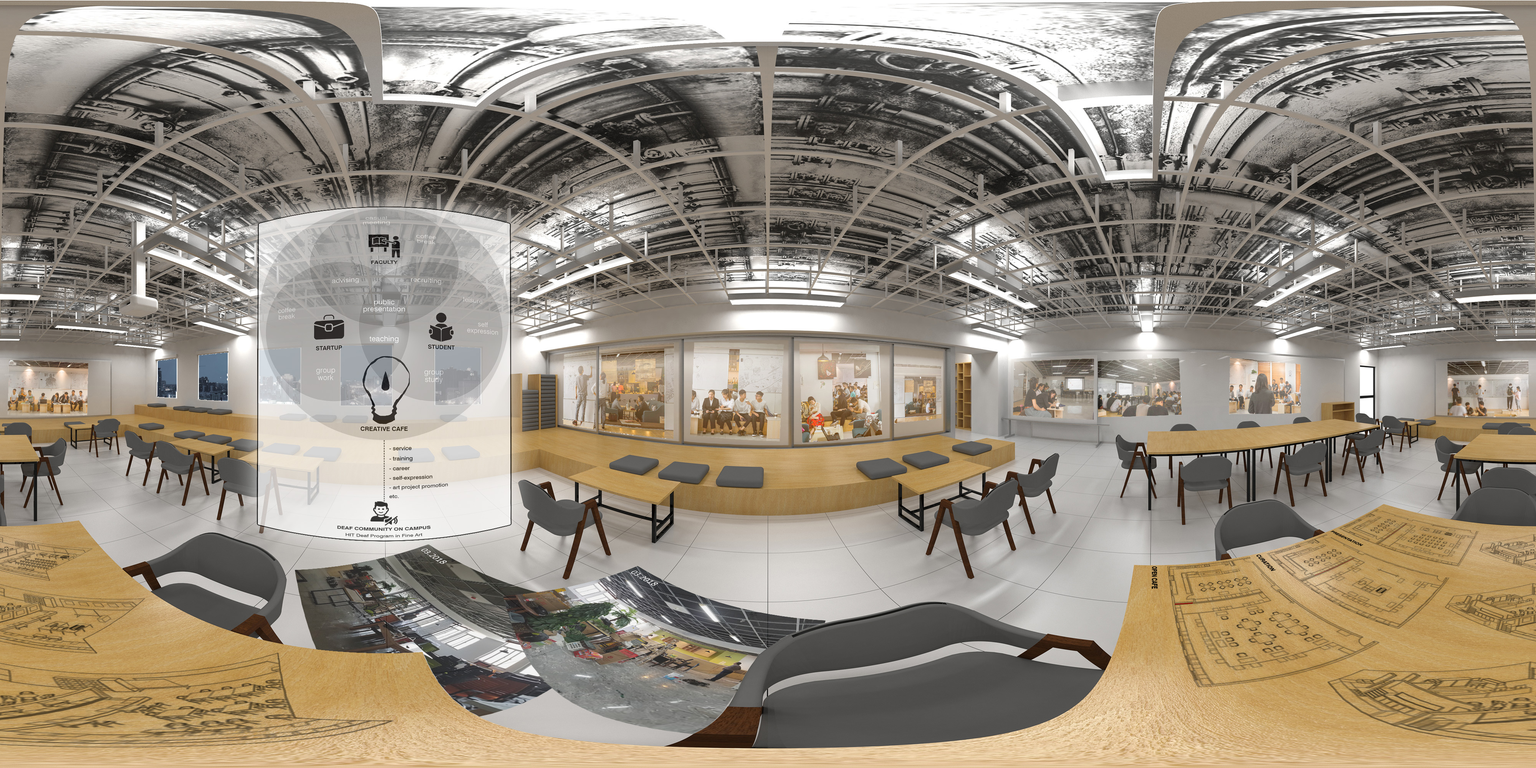
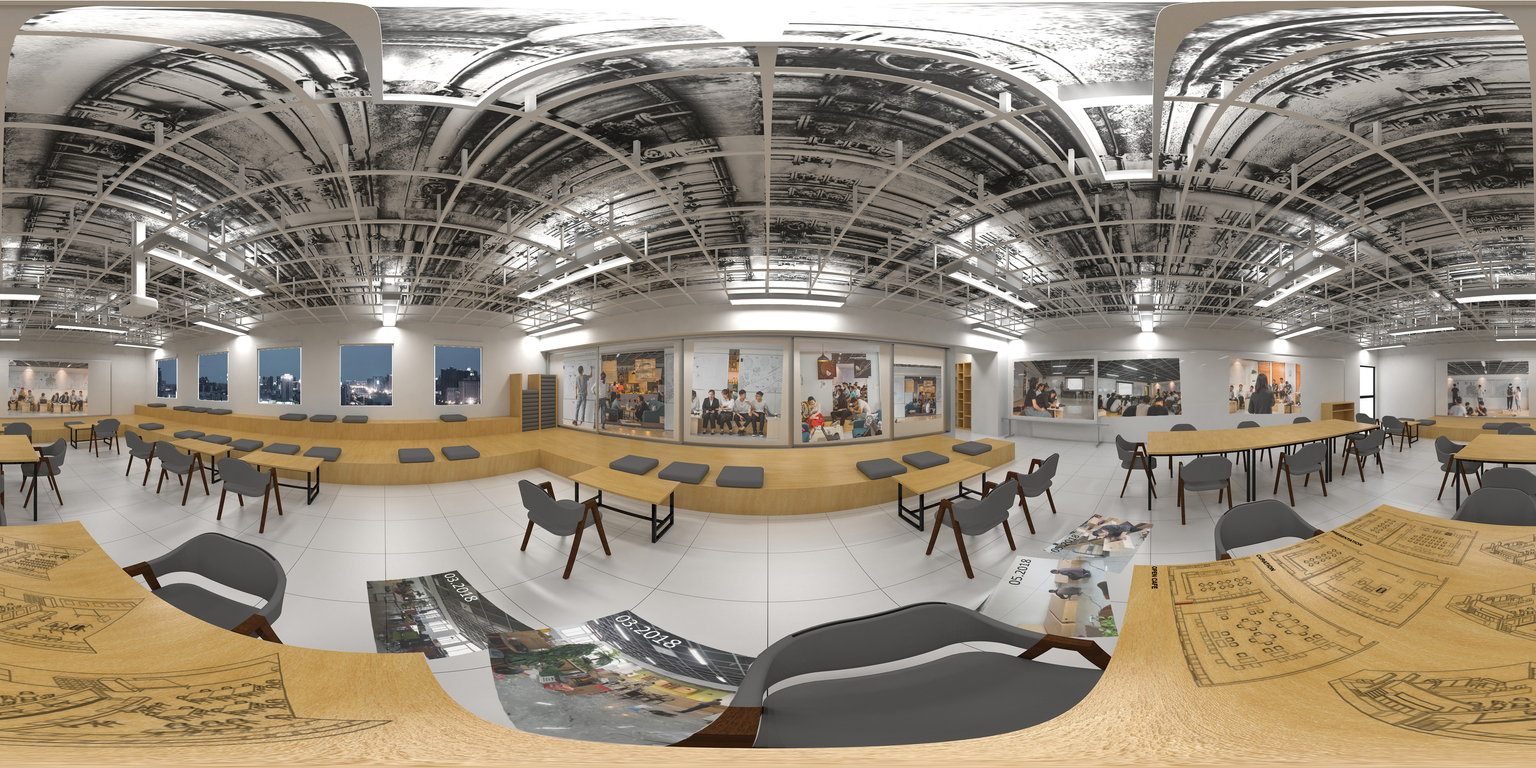
edited project page

diff --git a/cafe360.html b/cafe360.html
@@ -24,7 +24,7 @@
   width:100%;
   text-align: left;
   z-index: 1;'>
-  <a href="cafe.html" target="_blank" rel="noopener noreferrer"><button class="button">CONCEPT</button></a>
+  <a href="cafe.html"><button class="button">CONCEPT</button></a>
 </div>
 
 </head>
@@ -59,6 +59,26 @@
     })
   }
 })
+
+AFRAME.registerComponent("proc0", {
+  init: function() {
+     var pieces = document.querySelectorAll(".info, .clickable")
+     this.el.addEventListener("click", e => {
+       for (let piece of pieces) {
+         piece.emit("show0")}
+     })
+   }
+})
+
+AFRAME.registerComponent("proc1", {
+  init: function() {
+     var pieces = document.querySelectorAll(".info, .clickable")
+     this.el.addEventListener("click", e => {
+       for (let piece of pieces) {
+         piece.emit("show1")}
+     })
+   }
+})
 </script>
 
 <a-scene raycaster="objects: .clickable" cursor="rayOrigin: mouse; fuse: false;"
@@ -68,9 +88,40 @@ loading-screen="dotsColor: black; backgroundColor: #F1F1F1">
   <a-assets>
     <img id="sky1" src="images/cafe/360.jpg" alt="background">
     <img id="sky2" src="images/cafe/360open.jpg" alt="background">
+    <img id="diagram" src="images/cafe/c-diagram.jpg" alt="diagram">
   </a-assets>
 
   <a-sky id="skyid" src="#sky1" rotation="0 -90 0"></a-sky>
+
+  <a-image class="clickable"
+      src="#diagram" width="1" height="1.4" rotation="0 90 0"
+      position="-1 1.6 0" opacity="0.9" scale="1"
+      animation__show1="startEvents: show1; property: scale; to: 1; dur: 200"
+      animation__hide0="startEvents: show0; property: scale; to: 0; dur: 200"
+      proc0>
+    </a-image>
+
+    <a-text class="clickable" line-height="85"
+      geometry="primitive: plane; width: 0.9; height: 1.1;" material="opacity:0.7; shader: flat; color: white"
+      width="0.9" rotation="0 90 0" position="-0.95 1.6 0" scale="0"
+      color="black" align="center"
+      value="CREATIVE CAFE 2018
+      Students, alumni, faculty,
+      and the creative mind of a deaf community
+
+      Sponsor:
+      Henan Institute of Technology Startup Lab
+
+      Project director:
+      Prof. Hongwei Wang
+
+      Student volunteers:
+      Hao Chen, Ziru Wei, Han Zhang, Jiyong Wang,
+      and their friends who stopped by to help."
+      animation__show0="startEvents: show0; property: scale; to: 1; dur: 200"
+      animation__hide1="startEvents: show1; property: scale; to: 0; dur: 200"
+      proc1>
+    </a-text>
 
 </a-scene>
 

diff --git a/cafe.html b/cafe.html
@@ -18,24 +18,6 @@
 					<header id="header">
 						<div class="inner"></div>
 
-					<!-- Nav -->
-						<nav>
-							<ul>
-								<li><a href="#menu">Menu</a></li>
-							</ul>
-						</nav>
-					</div>
-					</header>
-
-					<!-- Menu -->
-
-						<nav id="menu" style="padding:15px;">
-							<h2>Menu</h2>
-							<ul>
-								<li><a href="index.html">HOME</a></li>
-							</ul>
-						</nav>
-
 					<!-- Main -->
 						<div id="main">
 							<div class="inner"
@@ -83,7 +65,9 @@
 								<img class="image main" src="images/cafe/c7.jpg" alt=""></img><br>
 								<img class="image main" src="images/cafe/c8.jpg" alt=""></img>
 								<br><br><br>
-								<a href="index.html"><button class="black" style="margin: 0 auto; display: block;">HOME</button></a>
+								<a href="cafe360.html"><button style="margin: 0 auto; display: block;">Web-VR SCENE</button></a>
+								<br><br>
+								<a href="index.html"><button class="black" style="margin: 0 auto; display: block;">PORTFOLIO</button></a>
 							</div>
 						</div>
 
